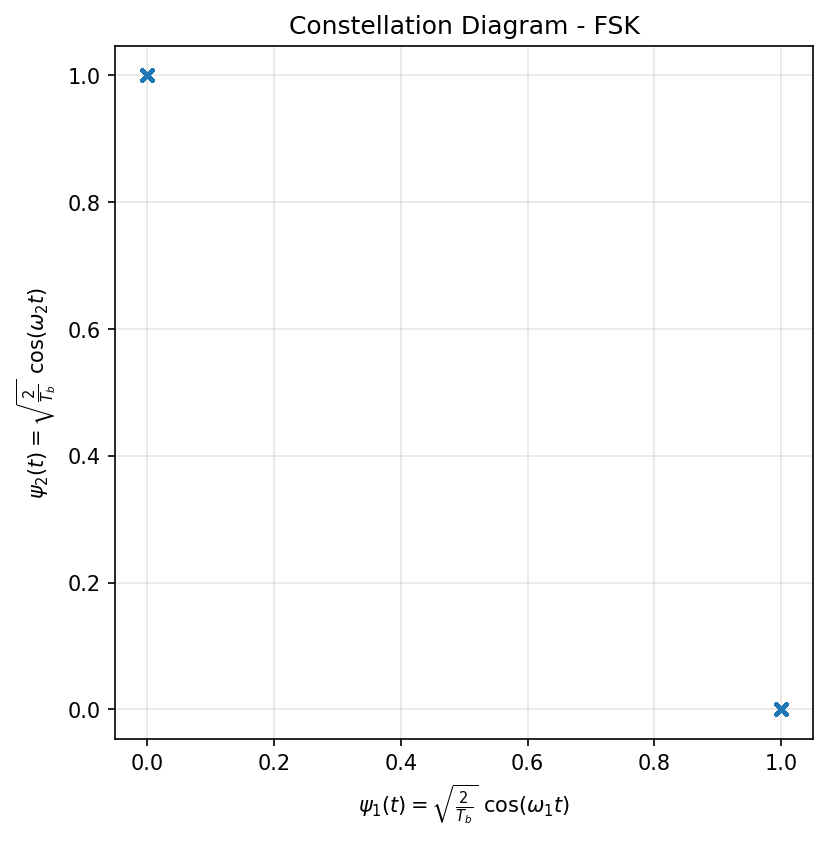
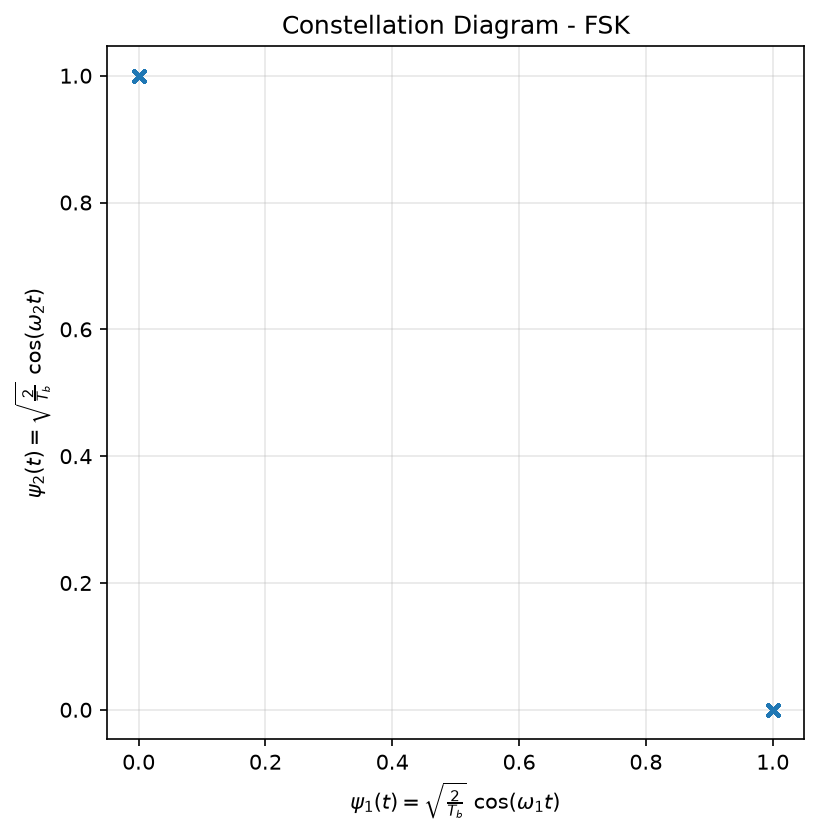
idk

Changed region(s): [[0.0, 0.0624, 1.0, 0.9976], [0.3358, 0.0, 0.7937, 0.0624]]

diff --git a/data/config.py b/data/config.py
@@ -2,6 +2,6 @@ from pathlib import Path
 
 ROOT = Path(__file__).parent.parent
 
-TXT_PATH = ROOT / "data" / "relativity_einstein.txt"
+TXT_PATH = ROOT / "data" / "einstein.txt"
 OUTPUT_PATH = ROOT / "data" / "output"
 MEDIA_PATH = ROOT / "media"

diff --git a/scripts/extras.py b/scripts/extras.py
@@ -90,7 +90,7 @@ def qam_reference(M: int, code_label: str) -> tuple:
 def plot_constellation(modulation_type : str, constellation: np.array, M: int, output_dir: str, code_label: str = "Binary", filename: str = "constellation.png") -> None:
     """
     Plots the constellation points and saves it as an image file. For QAM it also
-draws the minimum-distance decision regions and the bit labels of each symbol.
+    draws the minimum-distance decision regions and the bit labels of each symbol.
 
     Parameters:
         modulation_type: str, the type of modulation

diff --git a/test/channel_effects.py b/test/channel_effects.py
@@ -72,5 +72,5 @@ if __name__ == "__main__":
     binary_vector = np.array([int(bit) for symbol in codified_text for bit in symbol]) # [1, 0, 0, 1, 1, 1, 0, 0, 1, 1, 1, 1, 1, 1, ... ]
 
     # Test channel effects for both modulation types
-    channel(binary_vector, modulation_type="QAM", M=16, code_label="Binary")
+    channel(binary_vector, modulation_type="QAM", M=16, code_label="Gray")
     channel(binary_vector, modulation_type="FSK", M=2, code_label="Binary")    